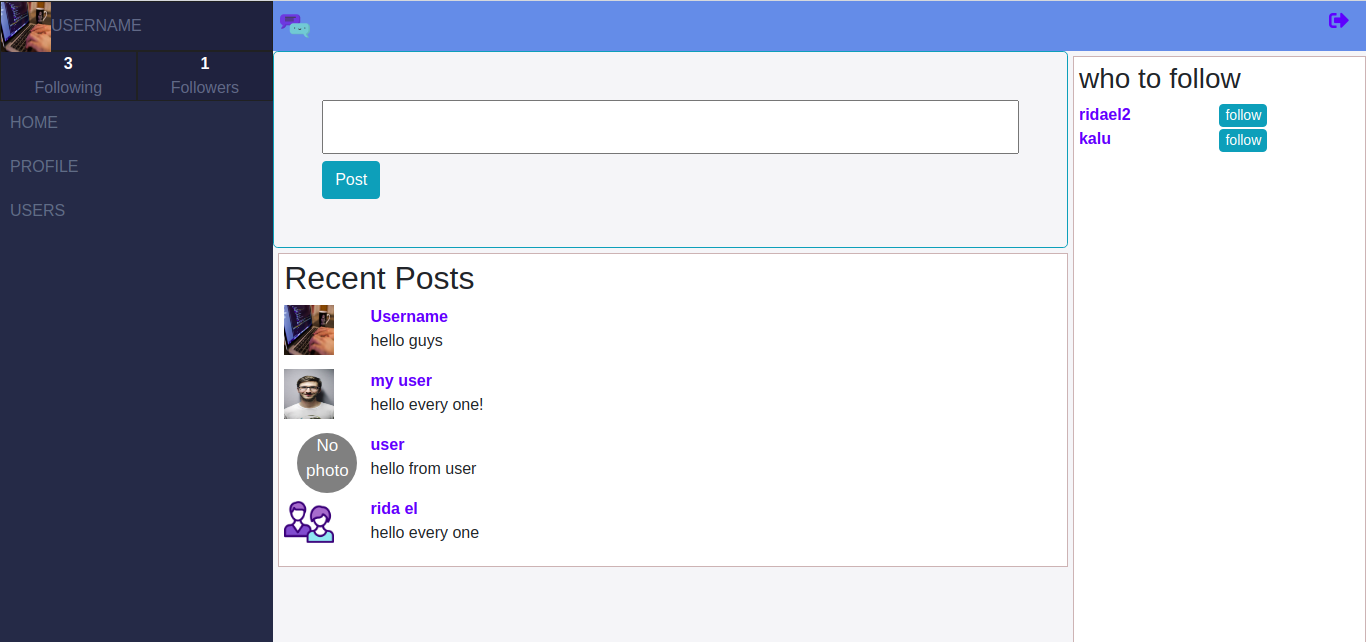
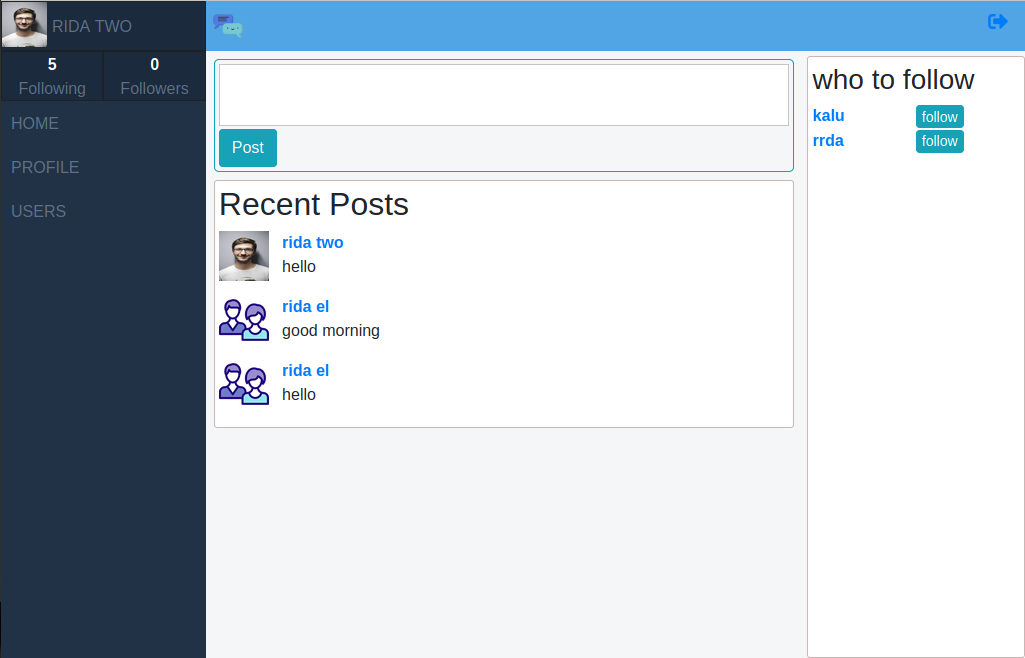
move methods from controllers to model and improve design

diff --git a/app/assets/stylesheets/style.css b/app/assets/stylesheets/style.css
@@ -91,6 +91,7 @@ body {
   margin-left: 5px;
   margin-top: 5px;
   border: 0.1px solid rgb(204, 181, 181);
+  border-radius: 3px;
   background-color: white;
 }
 
@@ -120,6 +121,29 @@ body {
 .side-bar a:hover {
   background-color: #51a5e5;
   color: white;
+}
+
+.circle,
+.user-details img {
+  border-radius: 50%;
+}
+
+.side-bar a.user_imglink {
+  text-decoration: none;
+  padding: 0;
+  margin: 0;
+  margin-right: 5px;
+  display: inline;
+}
+
+.side-bar a.user_imglink:hover {
+  text-decoration: none;
+  background-color: inherit;
+}
+
+.side-bar a.user_imglink img {
+  width: 45px;
+  height: 45px;
 }
 
 .navbar-up {
@@ -168,30 +192,21 @@ body {
 
 .cover_img {
   width: 100%;
-  height: 180px;
+  max-height: 250px;
+}
+
+.underline {
+  border-bottom: 0.1px solid rgb(187, 173, 173);
+  width: 75%;
+  padding-left: 4px;
+}
+
+.gray {
+  color: rgb(77, 77, 77);
 }
 
 .user-details {
   text-align: center;
-}
-
-.circle,
-.user-details img {
-  border-radius: 50%;
-}
-
-/* remove later */
-
-.red {
-  width: 100%;
-  height: 100%;
-  background-color: red;
-}
-
-.blue {
-  width: 100%;
-  height: 100%;
-  background-color: blue;
 }
 
 .user-static {

diff --git a/app/controllers/thoughts_controller.rb b/app/controllers/thoughts_controller.rb
@@ -7,7 +7,7 @@ class ThoughtsController < ApplicationController
   def index
     user = User.find(check_user)
     @thought = Thought.new
-    @thoughts = followedthought(user)
+    @thoughts = user.followedthought
   end
 
   def new
@@ -30,10 +30,5 @@ class ThoughtsController < ApplicationController
 
   def thoughts_params
     params.require(:thought).permit(:text)
-  end
-
-  def followedthought(user)
-    followeds = user.followeds.pluck(:id).push(check_user)
-    Thought.where(author_id: followeds).ordered_by_most_recent.includes(:author)
   end
 end

diff --git a/config/routes.rb b/config/routes.rb
@@ -2,9 +2,9 @@
 
 Rails.application.routes.draw do
   # For details on the DSL available within this file, see http://guides.rubyonrails.org/routing.html
-  resources :users
+  resources :users, only: %i[show new create index ]
   root to: 'thoughts#index'
-  resources :thoughts
+  resources :thoughts, only: %i[new create index]
 
   resources :followings, only: %i[new create destroy]
   resources :sessions, only: %i[new create destroy]

diff --git a/app/models/user.rb b/app/models/user.rb
@@ -16,4 +16,9 @@ class User < ApplicationRecord
   def whotofollow
     User.where.not(id: followeds.pluck(:id).push(id)).order(created_at: :desc)
   end
+
+  def followedthought
+    followeds = self.followeds.pluck(:id).push(id)
+    Thought.where(author_id: followeds).ordered_by_most_recent.includes(:author)
+  end
 end

diff --git a/README.md b/README.md
@@ -1,8 +1,17 @@
-https://www.loom.com/share/f8c1f0cd8a39454ebd77554abcea635c
-
 # Car Discussion
 
 > This repo includes a social media app that will allow the user to signin and signup,follow friends , share his thought with them.
+> and  It allow user to search for other users by there full name or username.  
+## Project features
+
+- Create an account
+- Add a profile and cover image
+- Follow users
+- Unfollow users
+- Publish posts
+- Read others posts
+- Search for users
+ 
 
 ## Built With
 
@@ -17,6 +26,7 @@ https://www.loom.com/share/f8c1f0cd8a39454ebd77554abcea635c
 
 ![screenshot3](app/assets/images/Screenshot3.png)
 
+![screenshot4](app/assets/images/Screenshot4.png)
 ## Video
 - [presentation of the project](https://www.loom.com/share/78f482a44ed744c599e7c3a891bea0e7)
 ## Getting Started
